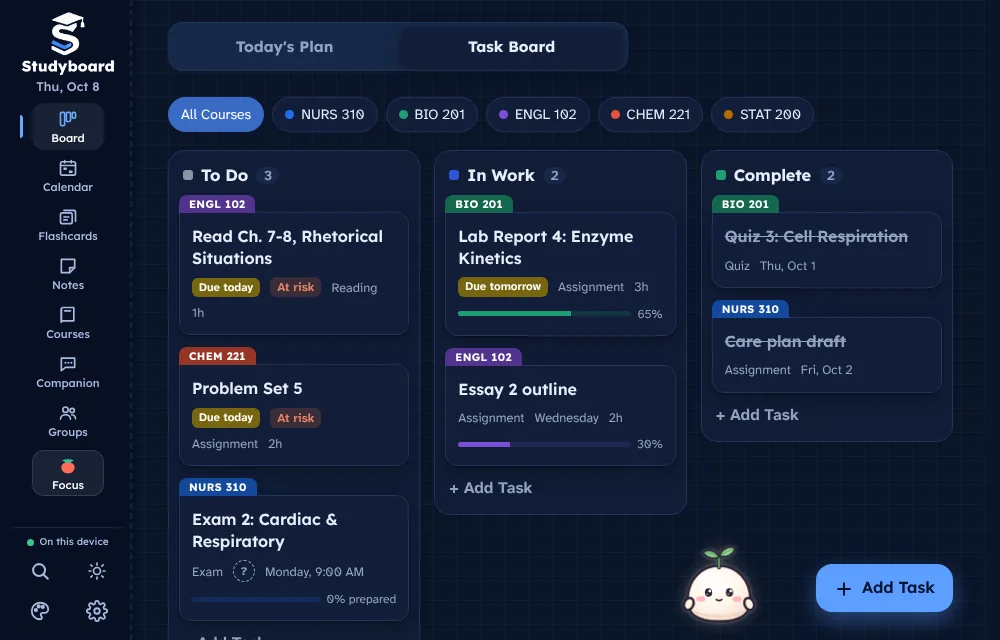
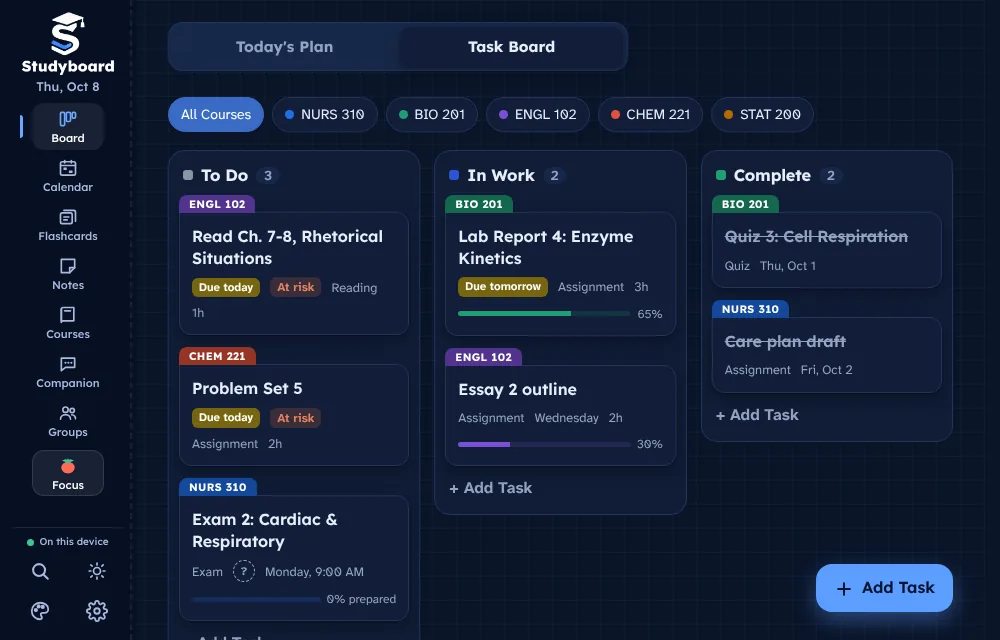
Website: theme tiles show the real app interface over the live scene (same layout and scale as the app); only the hero companion speaks
The capture tool gets an --overlays mode that saves the app's interface on a transparent background and the scene and companion positions.

Claude-Session: https://claude.ai/code/session_01TSdUHaiEWehYUR3DZFjvCE

Changed region(s): [[0.682, 0.8438, 0.775, 1.0]]

diff --git a/website/assets/scenes.js b/website/assets/scenes.js
@@ -8,7 +8,7 @@
   var root = document.documentElement, SVGNS = "http://www.w3.org/2000/svg";
   var reduce = window.matchMedia && window.matchMedia("(prefers-reduced-motion: reduce)");
   var L = null, loading = false, queue = [], broken = {};
-  var DESIGN_W = 1200, DESIGN_H = 750, FRAME_MS = 33, F = {s: 1, a: 1}, F_GENTLE = {s: 0.7, a: 0.7};
+  var FRAME_MS = 33, F = {s: 1, a: 1}, F_GENTLE = {s: 0.7, a: 0.7};
 
   function isDark() {
     var t = root.getAttribute("data-theme");
@@ -49,57 +49,44 @@
     parent.appendChild(svg);
   }
 
-  // A small stand-in for the Task Board in the theme's own colors, on top of the live scene.
-  function board(parent, v) {
-    var ui = el("div", "scn-ui", parent), c = v.c || {};
-    var set = function (n, val) { if (val) ui.style.setProperty(n, val); };
-    set("--s-spine", c.spine); set("--s-sf", c.sf); set("--s-ink", c.ink); set("--s-mu", c.mu); set("--s-ac", c.ac); set("--s-bt", c.bt); set("--s-bf", c.bf); set("--s-ln", c.ln);
-    var sp = el("div", "scn-spine", ui); el("b", "", sp).textContent = "Studyboard"; ["Board", "Calendar", "Flashcards", "Notes"].forEach(function (t, i) { var a = el("span", i ? "" : "on", sp); a.textContent = t; });
-    var main = el("div", "scn-main", ui);
-    el("div", "scn-add", main).textContent = "Add a task by typing, e.g. bio quiz fri 2pm";
-    var cols = el("div", "scn-cols", main);
-    [["To Do", ["Read Ch. 7-8", "Problem Set 5"]], ["In Work", ["Lab Report 4", "Essay 2 outline"]], ["Complete", ["Quiz 3", "Care plan draft"]]].forEach(function (col, ci) {
-      var d = el("div", "scn-col", cols); el("h5", "", d).textContent = col[0];
-      col[1].forEach(function (t) { var cd = el("div", "scn-card" + (ci === 2 ? " done" : ""), d); el("i", "", cd); el("span", "", cd).textContent = t; });
-    });
-    el("div", "scn-fab", ui).textContent = "+ Add Task";
-  }
-
   var live = []; // {tile, box, W, eng, ctx, s, T, drawn, visible}
   function teardown(rec) { if (rec.box && rec.box.parentNode) rec.box.parentNode.removeChild(rec.box); rec.tile.classList.remove("live"); rec.eng = null; rec.ctx = []; }
 
+  // The tile is a picture of the real app (a transparent interface picture made from the app itself) over the live scene, which sits exactly where it does in the app:
+  // to the right of the sidebar, drawn at the scale the app uses for that window size.
   function build(rec) {
     if (!L || !rec.tile.isConnected) return;
-    var tile = rec.tile, id = tile.getAttribute("data-scene"), dk = isDark();
-    var W = Math.round(tile.getBoundingClientRect().width), k, H;
-    if (!W) return;
-    k = W / DESIGN_W; H = Math.round(DESIGN_H * k);
+    var tile = rec.tile, id = tile.getAttribute("data-scene"), dk = isDark(), geo = window.SB_TILE_GEO, g = geo && geo.themes[id] && geo.themes[id][dk ? "dark" : "light"];
+    var W = Math.round(tile.getBoundingClientRect().width);
+    if (!W || !g) return;
+    var t = W / geo.w, H = Math.round(geo.h * t), sx = g.s[0] * t, sy = g.s[1] * t, sw = g.s[2] * t, sh = g.s[3] * t;
+    var kApp = Math.max(0.8, Math.min(3, Math.min(g.s[2] / 1200, g.s[3] / 800))), bw = Math.round(g.s[2] / kApp), bh = Math.round(g.s[3] / kApp), desk = g.s[2] / g.s[3] >= 0.9, k = kApp * t;
     var A = null, v = null, eng = null;
     if (L.ENGINES[id] && !broken[id]) {
-      try { A = {}; L.setAnim(A); v = L.buildSceneAt(id, dk, DESIGN_W, DESIGN_H, true); L.setAnim(null); eng = L.ENGINES[id](A, v, dk); }
+      try { A = {}; L.setAnim(A); v = L.buildSceneAt(id, dk, bw, bh, desk); L.setAnim(null); eng = L.ENGINES[id](A, v, dk); }
       catch (e) { L.setAnim(null); broken[id] = 1; v = null; eng = null; }
     }
-    if (!v) { try { L.setAnim(null); v = L.buildSceneAt(id, dk, DESIGN_W, DESIGN_H, true); } catch (e) { return; } }
+    if (!v) { try { L.setAnim(null); v = L.buildSceneAt(id, dk, bw, bh, desk); } catch (e) { return; } }
     teardown(rec);
     var box = el("div", "scn"); box.setAttribute("aria-hidden", "true");
-    box.style.background = v.sky;
     var art = el("div", "scn-art", box);
+    art.style.left = sx + "px"; art.style.top = sy + "px"; art.style.width = sw + "px"; art.style.height = sh + "px"; art.style.background = v.sky;
     if (v.band && v.band.h) { var b = el("div", "scn-band", art); b.style.top = (v.band.top * k) + "px"; b.style.height = (v.band.h * k) + "px"; b.style.background = v.band.bg; }
     layer(v.far, true, v, k, art); layer(v.refl, true, v, k, art); layer(v.mid, true, v, k, art);
     var cA = eng ? el("canvas", "scn-cv", art) : null;
     layer(v.near, false, v, k, art);
     var cS = eng && eng.stat ? el("canvas", "scn-cv", art) : null;
     var cB = eng ? el("canvas", "scn-cv", art) : null;
-    var dpr = Math.min(1.5, eng && eng.maxDpr || 9, window.devicePixelRatio || 1), s = k * dpr;
-    [cA, cB].forEach(function (c) { if (c) { c.width = Math.round(W * dpr); c.height = Math.round(H * dpr); c.style.width = W + "px"; c.style.height = H + "px"; } });
-    if (cS) { cS.width = eng.stat.width; cS.height = eng.stat.height; cS.style.width = W + "px"; cS.style.height = H + "px"; cS.getContext("2d").drawImage(eng.stat, 0, 0); eng.hosted = true; }
-    board(box, v);
+    var dpr = Math.min(1.5, eng && eng.maxDpr || 9, window.devicePixelRatio || 1), sc = k * dpr;
+    [cA, cB].forEach(function (c) { if (c) { c.width = Math.round(sw * dpr); c.height = Math.round(sh * dpr); c.style.width = sw + "px"; c.style.height = sh + "px"; } });
+    if (cS) { cS.width = eng.stat.width; cS.height = eng.stat.height; cS.style.width = sw + "px"; cS.style.height = sh + "px"; cS.getContext("2d").drawImage(eng.stat, 0, 0); eng.hosted = true; }
+    var ui = el("img", "scn-ui-img", box); ui.alt = ""; ui.decoding = "async"; ui.src = "assets/screens/ui-" + id + "-" + (dk ? "dark" : "light") + ".webp";
     var comp = tile.getAttribute("data-comp"), host = null;
-    if (comp) { host = el("div", "wcp-host small", box); host.setAttribute("data-companion", comp); }
+    if (comp) { host = el("div", "wcp-host", box); host.setAttribute("data-companion", comp); host.style.left = (g.c[0] / geo.w * 100) + "%"; host.style.top = (g.c[1] / geo.h * 100) + "%"; host.style.width = (g.c[2] / geo.w * 100) + "%"; }
     tile.insertBefore(box, tile.firstChild);
     if (host && window.SBWebComp) window.SBWebComp.mount(host);
     tile.classList.add("live");
-    rec.box = box; rec.W = W; rec.eng = eng; rec.ctx = eng ? [cA.getContext("2d"), cB.getContext("2d")] : []; rec.s = s; rec.T = 0; rec.drawn = false; rec.dk = dk;
+    rec.box = box; rec.W = W; rec.eng = eng; rec.ctx = eng ? [cA.getContext("2d"), cB.getContext("2d")] : []; rec.s = sc; rec.T = 0; rec.drawn = false; rec.dk = dk;
     if (eng) frame(rec, 1 / 30);
   }
 

diff --git a/tools/capture-site-screens.js b/tools/capture-site-screens.js
@@ -2,8 +2,8 @@
 // Runs the real app with made-up student data on a fixed date and saves screenshots (PNG, light and dark) for the website home page.
 // Convert them to WebP for website/assets/screens/ (for example with Pillow: Image.open(p).save(p.replace(".png", ".webp"), quality=82)).
 const http = require("http"), fs = require("fs"), path = require("path"), os = require("os");
-const {chromium} = require("/opt/node-tools/node_modules/playwright");
-const root = path.join(__dirname, ".."), OUT = process.argv[2] || fs.mkdtempSync(path.join(os.tmpdir(), "sbshots-"));
+const {chromium, executablePath} = require("../tests/pw");
+const root = path.join(__dirname, ".."), OUT = process.argv.slice(2).find(a => !a.startsWith("--")) || fs.mkdtempSync(path.join(os.tmpdir(), "sbshots-"));
 fs.mkdirSync(OUT, {recursive: true});
 const MIME = {".html": "text/html", ".js": "text/javascript", ".json": "application/json", ".png": "image/png", ".css": "text/css", ".svg": "image/svg+xml", ".woff2": "font/woff2", ".webp": "image/webp", ".webmanifest": "application/manifest+json"};
 const server = http.createServer((q, r) => { let p = decodeURIComponent(new URL(q.url, "http://x").pathname); if (p === "/") p = "/index.html"; const f = path.join(root, p);
@@ -101,4 +101,32 @@ async function captureHero(browser, scheme) {
   await page.evaluate(() => { const q = [...document.querySelectorAll("input")].find(i => /Add a task by typing/i.test(i.placeholder || "")); const row = q && (q.closest("form") || q.parentElement.parentElement); if (row) row.style.display = "none"; [...document.querySelectorAll("div,span,label")].filter(e => /^Group By/i.test(e.textContent.trim()) && e.textContent.length < 40 && e.querySelectorAll("button").length <= 2).forEach(e => { e.style.display = "none"; }); });
   await page.waitForTimeout(600); await page.screenshot({path: path.join(OUT, `hero-${scheme}.png`)}); console.log("saved", `hero-${scheme}.png`); await ctx.close();
 }
-(async () => { await new Promise(r => server.listen(0, r)); const browser = await chromium.launch(); try { for (const s of ["light", "dark"]) { await captureHero(browser, s); await captureThemes(browser, s); } for (const s of ["light", "dark"]) await capture(browser, s); } finally { await browser.close(); server.close(); } console.log("done:", OUT); })().catch(e => { console.error(e); process.exit(1); });
+
+// --overlays: the real interface on a transparent background (no scene, no companion) for the home page theme tiles and hero, plus where the scene and the
+// companion sit in that picture (geometry.json). The website draws the live scene behind the picture and the live companion in front of it.
+const GEO = {window: WINDOW, themes: {}, hero: {}};
+const measure = page => page.evaluate(() => {
+  const r = e => { if (!e) return null; const b = e.getBoundingClientRect(); return {left: +b.left.toFixed(1), top: +b.top.toFixed(1), width: +b.width.toFixed(1), height: +b.height.toFixed(1)}; };
+  const cp = document.querySelector(".cp .cp-breathe") || document.querySelector(".cp");
+  return {scene: r(document.getElementById("sceneArt")), comp: r(cp), vw: innerWidth, vh: innerHeight};
+});
+const clearArt = page => page.addStyleTag({content: "#sceneArt,.cp-layer,.cp-front,.cp,.cp-bubble{visibility:hidden!important} html,body{background:transparent!important;background-image:none!important}"});
+async function captureOverlays(browser, scheme) {
+  for (const th of THEMES) {
+    const seed = JSON.parse(JSON.stringify(SEED)); seed.settings.style = {skin: th}; seed.settings.owned = THEMES.map(t => "skin:" + t);
+    const {ctx, page} = await openSeeded(browser, scheme, seed, WINDOW);
+    await taskBoard(page); await page.waitForSelector(".cp .cp-svg", {timeout: 8000}).catch(() => {});
+    const g = await measure(page); (GEO.themes[th] = GEO.themes[th] || {})[scheme] = g;
+    await clearArt(page); await page.waitForTimeout(300);
+    await page.screenshot({path: path.join(OUT, `ui-${th}-${scheme}.png`), omitBackground: true}); console.log("saved", `ui-${th}-${scheme}.png`, JSON.stringify(g.comp)); await ctx.close();
+  }
+  const seed = JSON.parse(JSON.stringify(SEED)); const keep = new Set(["t3", "t4", "t2", "t1", "t5", "t8", "t9"]); seed.tasks = seed.tasks.filter(t => keep.has(t.id));
+  const {ctx, page} = await openSeeded(browser, scheme, seed, {width: 1000, height: 640});
+  await taskBoard(page); await page.waitForSelector(".cp .cp-svg", {timeout: 8000}).catch(() => {});
+  await page.evaluate(() => { const q = [...document.querySelectorAll("input")].find(i => /Add a task by typing/i.test(i.placeholder || "")); const row = q && (q.closest("form") || q.parentElement.parentElement); if (row) row.style.display = "none"; [...document.querySelectorAll("div,span,label")].filter(e => /^Group By/i.test(e.textContent.trim()) && e.textContent.length < 40 && e.querySelectorAll("button").length).forEach(e => { e.style.display = "none"; }); });
+  await page.waitForTimeout(600);
+  GEO.hero[scheme] = await measure(page);
+  await page.addStyleTag({content: ".cp-layer,.cp-front,.cp,.cp-bubble{visibility:hidden!important}"}); await page.waitForTimeout(300);
+  await page.screenshot({path: path.join(OUT, `hero-${scheme}.png`)}); console.log("saved", `hero-${scheme}.png`, JSON.stringify(GEO.hero[scheme].comp)); await ctx.close();
+}
+(async () => { await new Promise(r => server.listen(0, r)); const browser = await chromium.launch({executablePath}); try { if (process.argv.includes("--overlays")) { for (const s of ["light", "dark"]) await captureOverlays(browser, s); fs.writeFileSync(path.join(OUT, "geometry.json"), JSON.stringify(GEO, null, 1)); return; } for (const s of ["light", "dark"]) { await captureHero(browser, s); await captureThemes(browser, s); } for (const s of ["light", "dark"]) await capture(browser, s); } finally { await browser.close(); server.close(); } console.log("done:", OUT); })().catch(e => { console.error(e); process.exit(1); });

diff --git a/website/assets/site.css b/website/assets/site.css
@@ -290,27 +290,12 @@ input.code{font:700 1.6rem ui-monospace,Menlo,Consolas,monospace;letter-spacing:
 
 /* ---- Live theme tiles (assets/scenes.js): the app's own scene and animation, with a small Task Board in the theme's colors on top ---- */
 .tile.live > img{display:none}
-.scn{position:relative;width:100%;aspect-ratio:8/5;overflow:hidden;container-type:inline-size}
-.scn-art{position:absolute;inset:0;overflow:hidden}
+.scn{position:relative;width:100%;aspect-ratio:8/5;overflow:hidden}
+.scn-art{position:absolute;overflow:hidden}
 .scn-l{position:absolute;display:block;max-width:none}
 .scn-cv{position:absolute;left:0;top:0;pointer-events:none;display:block}
 .scn-band{position:absolute;left:0;right:0}
-.scn-ui{position:absolute;inset:0;display:flex;text-transform:none;letter-spacing:0;font-style:normal;color:var(--s-ink,#1c2533);font-family:var(--body);pointer-events:none}
-.scn-spine{flex:0 0 13%;background:var(--s-spine,#2f4a7a);color:#fff;display:flex;flex-direction:column;gap:2.4cqw;padding:3.2cqw 1.2cqw;font-size:2.1cqw;font-weight:600}
-.scn-spine b{font:700 2.6cqw var(--display);margin-bottom:2cqw;line-height:1.1}
-.scn-spine span{opacity:.82;padding:1cqw .8cqw;border-radius:1.2cqw}
-.scn-spine span.on{background:rgba(255,255,255,.2);opacity:1}
-.scn-main{flex:1;padding:2.4cqw 2.6cqw;display:flex;flex-direction:column;gap:2.2cqw;min-width:0}
-.scn-add{background:var(--s-sf,rgba(255,255,255,.85));border-radius:2cqw;padding:1.7cqw 2.2cqw;font-size:2.1cqw;color:var(--s-mu,#5b6678);box-shadow:0 .4cqw 1.6cqw rgba(0,0,0,.08)}
-.scn-cols{display:grid;grid-template-columns:repeat(3,1fr);gap:1.8cqw;flex:none;align-items:start}
-.scn-col{background:var(--s-sf,rgba(255,255,255,.85));border-radius:2cqw;padding:1.6cqw;display:flex;flex-direction:column;gap:1.4cqw;box-shadow:0 .4cqw 1.6cqw rgba(0,0,0,.08)}
-.scn-col h5{margin:0;font:700 2.3cqw var(--display);color:var(--s-ink,#1c2533)}
-.scn-card{background:rgba(255,255,255,.9);color:#1c2533;border-radius:1.4cqw;padding:1.3cqw 1.4cqw;font-size:2cqw;font-weight:600;border-left:.8cqw solid var(--s-ac,#2f5e9e);line-height:1.25;box-shadow:0 .3cqw 1cqw rgba(0,0,0,.08)}
-.scn-card i{display:block;height:.9cqw;width:55%;border-radius:1cqw;background:var(--s-ac,#2f5e9e);opacity:.45;margin-bottom:.9cqw}
-.scn-card.done span{text-decoration:line-through;opacity:.6}
-.scn-fab{position:absolute;right:3cqw;bottom:3cqw;background:var(--s-bt,#2f5e9e);color:var(--s-bf,#fff);border-radius:99cqw;padding:1.5cqw 3cqw;font:700 2.3cqw var(--display);box-shadow:0 .6cqw 2cqw rgba(0,0,0,.25)}
-:root[data-theme="dark"] .scn-card{background:rgba(24,30,44,.88);color:#eaf0fb}
-@media (prefers-color-scheme:dark){:root:not([data-theme="light"]) .scn-card{background:rgba(24,30,44,.88);color:#eaf0fb}}
+.scn-ui-img{position:absolute;left:0;top:0;width:100%;height:100%;display:block;pointer-events:none}
 @media (prefers-reduced-motion:reduce){.scn-cv{display:block}}
 
 /* ---- Live companions (assets/companions.js): the app's companion art, drawn and moved by the app's own animation code ---- */
@@ -338,9 +323,7 @@ input.code{font:700 1.6rem ui-monospace,Menlo,Consolas,monospace;letter-spacing:
 .wcp-bubble::after{content:"";position:absolute;right:14%;bottom:-6px;width:11px;height:11px;margin-right:-5px;background:inherit;border-right:1px solid var(--line);border-bottom:1px solid var(--line);transform:rotate(45deg)}
 .wcp-bubble.on{opacity:1;transform:none}
 @media (prefers-reduced-motion:reduce){.wcp-host .cp-breathe,.wcp-host .cp-shadow{animation:none!important}.wcp-bubble{transition:opacity .2s;transform:none}}
-/* In a theme tile the companion sits left of the Add Task button and its size follows the tile */
-.scn .wcp-host{--cps:17cqw;right:23cqw;bottom:.4cqw}
-.scn .wcp-bubble{font-size:max(10.5px,2.7cqw);max-width:44cqw;border-radius:2cqw;padding:1.2cqw 2cqw}
 /* In the companion section it stands in the corner of the screenshot */
 .shot{position:relative}
 .wcp-host.corner{--cps:clamp(84px,16%,120px);right:2.5%;bottom:2%}
+.wcp-host.geo{--cps:auto}

diff --git a/website/assets/companions.js b/website/assets/companions.js
@@ -1,6 +1,6 @@
 // Animated study companions on the home page. It loads the app's own companion art and animation code (companions-data.js and
 // companions-engine.js, copied from the app) the first time one comes near the screen, then draws it, blinks, plays its idle moves and has it say
-// something every so often, like the companion in the app. No inline styles or scripts are used (strict Content-Security-Policy).
+// something every so often (only the one on the first screen talks; the others just move), like the companion in the app. No inline styles or scripts are used (strict Content-Security-Policy).
 (function () {
   "use strict";
   var W = null, loading = false, waiting = [];
@@ -27,9 +27,11 @@
   function start(host) {
     var id = host.getAttribute("data-companion"), c = W.BYID[id];
     if (!c || host.__cp) return;
-    var compact = host.classList.contains("small"), max = compact ? 46 : 80;
+    var talks = host.hasAttribute("data-talk"), max = 80;
     // The drawing carries inline style attributes (each limb's pivot). The page's security policy does not allow those, so they are renamed before the
     // drawing is parsed and then set through the DOM.
+    var geo = window.SB_TILE_GEO, hg = host.getAttribute("data-geo") === "hero" && geo && geo.hero && geo.hero.light;
+    if (hg) { host.style.left = (hg.c[0] / hg.w * 100) + "%"; host.style.top = (hg.c[1] / hg.h * 100) + "%"; host.style.width = (hg.c[2] / hg.w * 100) + "%"; }
     var svg = W.rigSvg(c, {}).replace(/\sstyle="([^"]*)"/g, ' data-st="$1"');
     host.innerHTML = '<div class="cp cp-' + c.pose + '"><span class="cp-shadow"></span><div class="cp-move"><div class="cp-breathe">' + svg + "</div></div></div>";
     host.querySelectorAll("[data-st]").forEach(function (n) {
@@ -42,13 +44,14 @@
     var inst = host.__cp = {host: host, timers: [], visible: false, alive: true};
     var after = function (ms, fn) { var t = setTimeout(function () { if (!inst.alive) return; if (!host.isConnected) { stop(inst); return; } if (!inst.visible || document.hidden) { after(1500, fn); return; } fn(); }, ms); inst.timers.push(t); };
     function say(t) {
+      if (!talks) return;
       bubble.textContent = t; bubble.classList.add("on");
       act.mouth("open"); setTimeout(function () { act.mouth("smile"); }, 900);
       clearTimeout(inst.hide); inst.hide = setTimeout(function () { bubble.classList.remove("on"); act.mouth("neutral"); }, Math.min(6500, 2600 + t.length * 55));
     }
     function talk(tap) {
       var t, n = 0; do { t = pick(lines); n++; } while (t === last && n < 6); last = t;
-      say(t); act.motion(tap ? c.cheer : pick(c.idle), false);
+      say(t); act.motion(tap || !talks ? c.cheer : pick(c.idle), false);
     }
     function loop() {
       after(rand(2600, 5200), function () { act.blink(); loop(); });
@@ -60,8 +63,8 @@
       after(first ? rand(3500, 7000) : rand(15000, 26000), function () { talk(false); chat(false); });
     }
     act.eyes("open"); act.mouth("neutral");
-    loop(); moves(); chat(true);
-    host.addEventListener("click", function () { if (!inst.visible) return; clearTimeout(inst.hide); talk(true); });
+    loop(); moves(); if (talks) chat(true);
+    host.addEventListener("click", function () { if (!inst.visible) return; clearTimeout(inst.hide); if (talks) talk(true); else act.motion(c.cheer, false); });
     host.setAttribute("role", "img"); host.setAttribute("aria-label", c.name + ", a study companion");
   }
   function stop(inst) { inst.alive = false; inst.timers.forEach(clearTimeout); clearTimeout(inst.hide); inst.host.__cp = null; }

diff --git a/website/index.html b/website/index.html
@@ -39,7 +39,7 @@
       <div class="dlpanel" id="heroDownloads" aria-live="polite"><div class="dlrow"><a class="dl primary app-link" href="account/"><span class="t"><small>Free &middot; works in any browser</small><b>Open Studyboard</b></span></a></div></div>
       <p class="dlnote">The Windows and Mac installers are not code-signed yet, so Windows or macOS may warn you before opening them. <a href="#install-help">How to open them</a></p>
     </div>
-    <div class="shot"><img class="logo-l" src="assets/screens/hero-light.webp" alt="The Studyboard Task Board, with courses color-coded and tasks in To Do, In Work and Complete columns" width="1000" height="640"><img class="logo-d" src="assets/screens/hero-dark.webp" alt="" width="1000" height="640" loading="lazy"></div>
+    <div class="shot"><img class="logo-l" src="assets/screens/hero-light.webp" alt="The Studyboard Task Board, with courses color-coded and tasks in To Do, In Work and Complete columns" width="1000" height="640"><img class="logo-d" src="assets/screens/hero-dark.webp" alt="" width="1000" height="640" loading="lazy"><div class="wcp-host" data-companion="plain-mochi" data-talk data-geo="hero"></div></div>
   </div>
 </section>
 
@@ -284,6 +284,7 @@
 <script src="config.js"></script>
 <script src="assets/site.js"></script>
 <script src="assets/home.js"></script>
+<script src="assets/tile-geo.js"></script>
 <script src="assets/companions.js"></script>
 <script src="assets/scenes.js"></script>
 </body>

diff --git a/website/assets/tile-geo.js b/website/assets/tile-geo.js
@@ -1,0 +1,2 @@
+// Where the scene and the companion sit in the real-interface pictures (screens/ui-*.webp, screens/hero-*.webp). Made by tools/capture-site-screens.js --overlays.
+window.SB_TILE_GEO = {"w":1000,"h":625,"themes":{"winter":{"light":{"s":[136,0,864,625],"c":[914.5,450,79.9]},"dark":{"s":[136,0,864,625],"c":[914.5,450,79.9]}},"autumn":{"light":{"s":[136,0,864,625],"c":[914.5,450,79.9]},"dark":{"s":[136,0,864,625],"c":[914.5,450,79.9]}},"sakura":{"light":{"s":[136,0,864,625],"c":[914.5,450,79.9]},"dark":{"s":[136,0,864,625],"c":[914.5,450,79.9]}},"forest":{"light":{"s":[136,0,864,625],"c":[914.5,450,79.9]},"dark":{"s":[136,0,864,625],"c":[914.5,449.9,79.9]}},"galaxy":{"light":{"s":[136,0,864,625],"c":[909,447.5,79]},"dark":{"s":[136,0,864,625],"c":[909,447.6,79]}},"sunset":{"light":{"s":[136,0,864,625],"c":[909.5,450,79.9]},"dark":{"s":[136,0,864,625],"c":[909.5,449.9,79.9]}},"ocean":{"light":{"s":[136,0,864,625],"c":[909.5,450,79.9]},"dark":{"s":[136,0,864,625],"c":[909.5,450,79.9]}},"nursing":{"light":{"s":[136,0,864,625],"c":[908,447.5,79]},"dark":{"s":[136,0,864,625],"c":[908,447.7,79]}},"compsci":{"light":{"s":[136,0,864,625],"c":[913.5,449.9,79.9]},"dark":{"s":[136,0,864,625],"c":[913.5,449.9,79.9]}}},"hero":{"light":{"w":1000,"h":640,"c":[670.6,531.2,96.8]},"dark":{"w":1000,"h":640,"c":[670.6,531.3,96.8]}}};

diff --git a/website/README.md b/website/README.md
@@ -30,3 +30,7 @@ The nine theme tiles run the app's own scenes, and the companions are the app's 
 `assets/companions-engine.js` are copies made from `index.html`. After the app's scenes or companions change, run `python3 tools/make-website-assets.py` from the repo root
 and publish the new files. `assets/scenes.js` and `assets/companions.js` are the website's own code. They load the big files only when a tile or companion comes near the
 screen, stop when it is off screen or the tab is hidden, and respect "reduce motion" (no movement, but companions still say a line now and then).
+
+The tiles and the hero use real-interface pictures: `assets/screens/ui-<theme>-<light|dark>.webp` (the app's interface on a transparent background, with the scene and the companion taken out) and
+`assets/screens/hero-*.webp`, plus `assets/tile-geo.js`, which says where the scene and the companion sit. Make them again with `node tools/capture-site-screens.js --overlays <folder>`, convert the PNGs
+to WebP, and copy the numbers from `geometry.json` into `tile-geo.js`. Only the companion on the first screen (the hero) speaks; the others just move.
